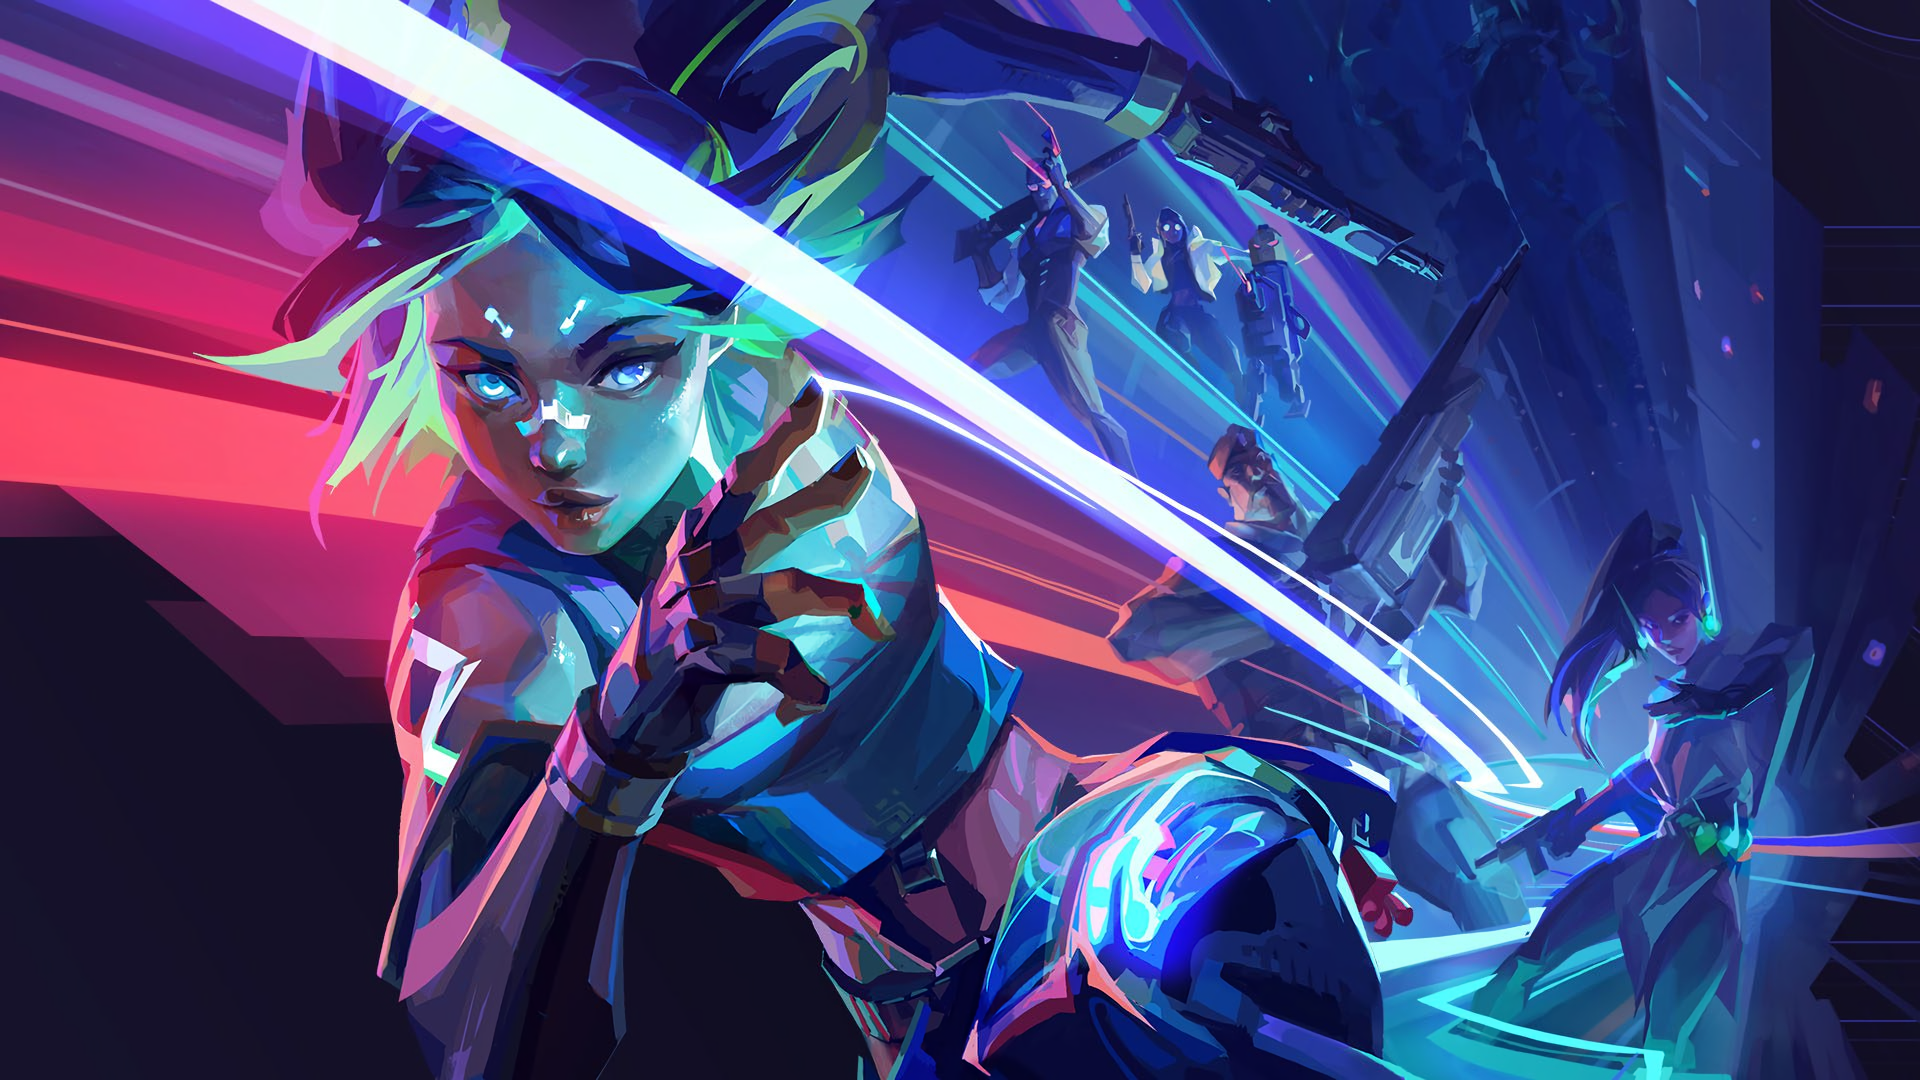
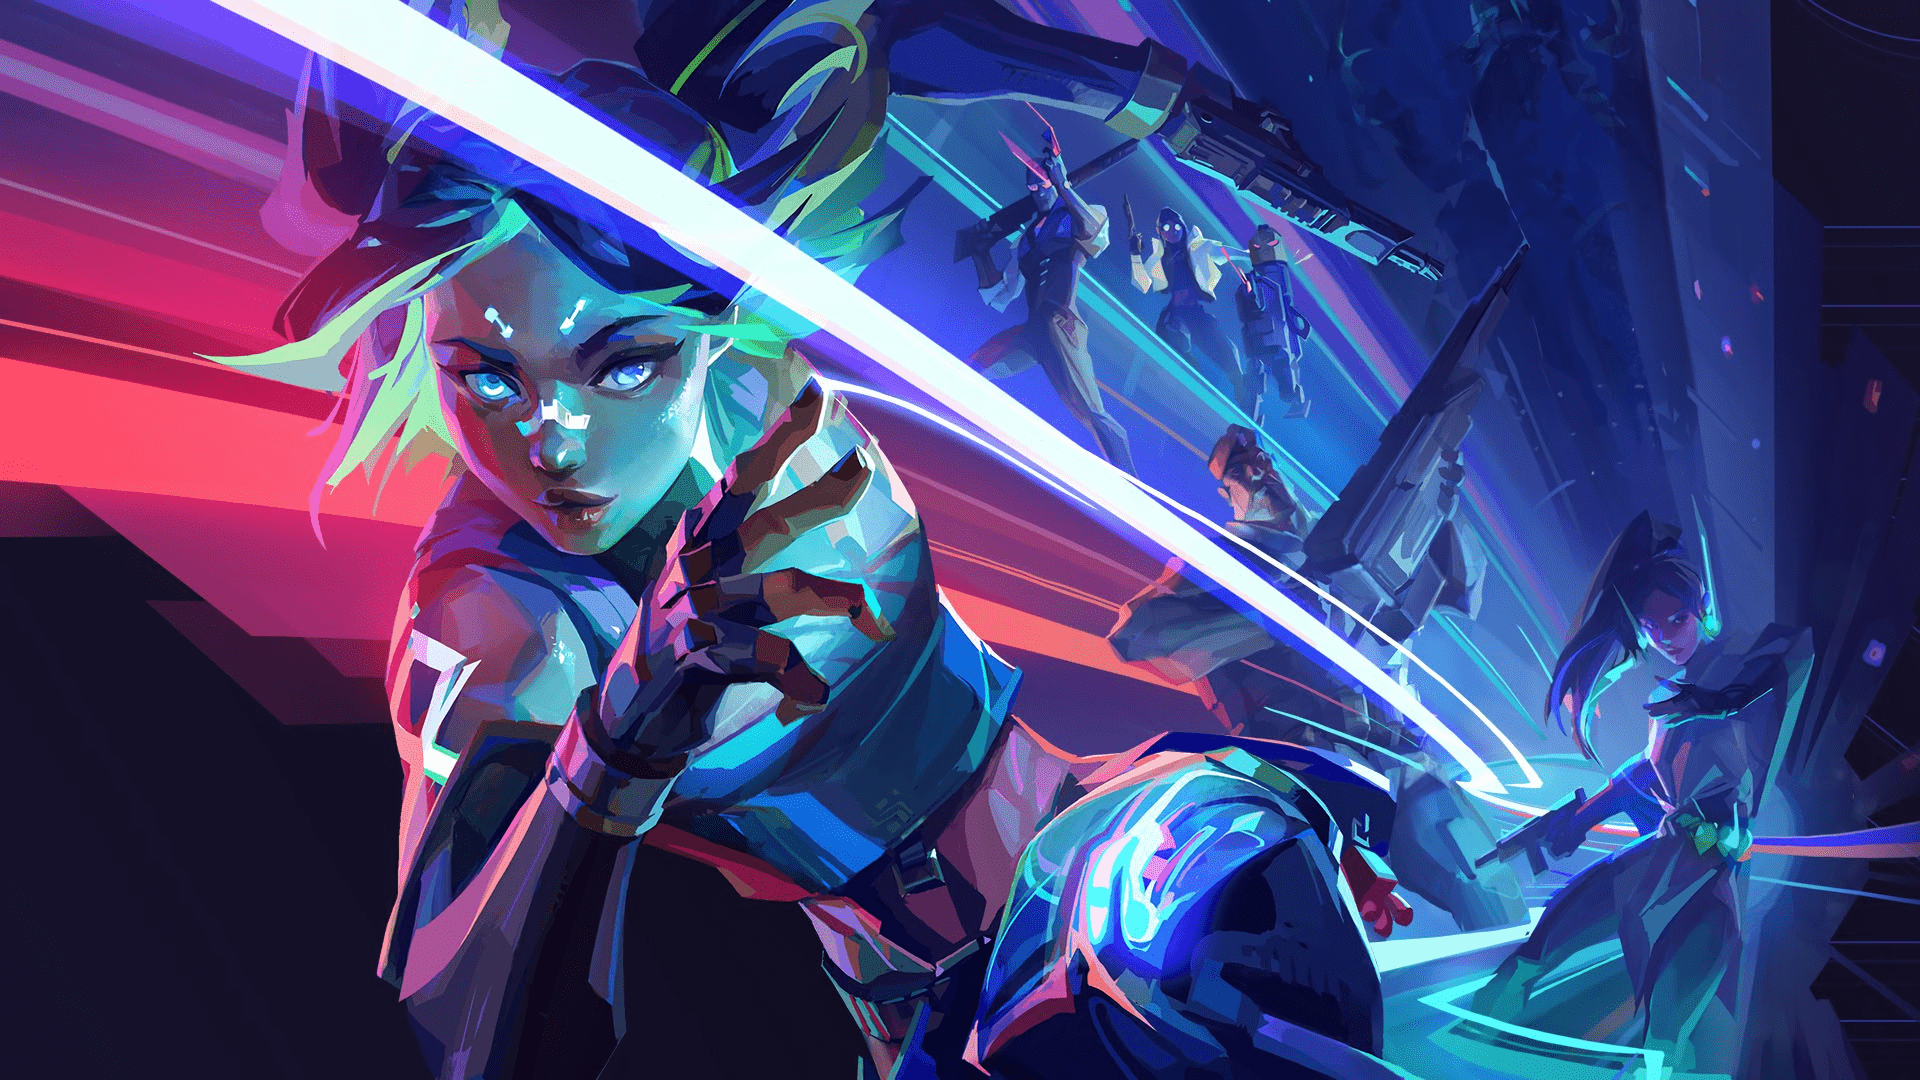
correção responsiva novidades

diff --git a/css/novidades.css b/css/novidades.css
@@ -1,24 +1,25 @@
 .novidades {
   background: linear-gradient(rgba(0, 0, 0, 0.8), rgba(0, 0, 0, 0.7)),
-    url(../img/mapa.jpg) no-repeat;
+    url(../img/mapa-comp.jpg) no-repeat;
   background-size: cover;
-  height: 1000px;
-  padding: 40px;
+  background-position: center;
+  height: auto;
+  padding: 60px;
 }
 
 .novidades-titulo {
   font-family: "Titillium Web", sans-serif;
   font-size: 4rem;
-  max-width: 1440px;
-  margin: 60px auto;
+  max-width: 1200px;
+  margin: 0px auto;
   color: white;
-  margin-bottom: 120px;
 }
 
 .novidades-container {
   display: flex;
   flex-wrap: wrap;
   justify-content: space-between;
+  padding: 20px;
   gap: 40px;
 }
 
@@ -27,13 +28,12 @@
     url(../img/neon.png);
   background-size: cover;
   background-position: left;
-  width: 500px;
-  height: 500px;
+  width: 400px;
+  height: 400px;
   border-radius: 5px;
   cursor: pointer;
   flex: 1 1 400px;
   position: relative;
-  padding: 20px;
   transform: scale(0.9);
   transition: 0.4s;
 }
@@ -59,6 +59,7 @@
 .item-info {
   position: absolute;
   bottom: 20px;
+  padding: 20px;
   font-family: "Titillium Web", sans-serif;
   color: white;
 }
@@ -69,24 +70,26 @@
 
 .item-info p {
   font-size: 1.35rem;
-  padding-right: 20px;
 }
 
-@media (max-width: 1360px) {
+@media (max-width: 1000px) {
   .novidades {
-    height: 1500px;
-  }
-}
-
-@media (max-width: 920px) {
-  .novidades {
-    height: 2000px;
-    padding: 20px;
+    background: linear-gradient(rgba(0, 0, 0, 0.3), rgba(0, 0, 0, 0.7));
   }
 }
 
 @media (max-width: 760px) {
   .novidades-titulo {
-    margin: 60px 0 60px 20px;
+    font-size: 2.5rem;
+    margin-left: 50px;
+  }
+
+  .novidades {
+    padding: 40px 10px;
+  }
+
+  .novidades-container {
+    padding: 20px;
+    gap: 20px;
   }
 }

diff --git a/css/main.css b/css/main.css
@@ -2,7 +2,7 @@
   height: 900px;
   width: 100%;
   background: linear-gradient(rgba(0, 0, 0, 0.3), rgba(0, 0, 0, 0.8)),
-    url(../img/main-img.jpg);
+    url(../img/main-img-comp.jpg);
   background-size: cover;
   box-shadow: inset 0 -200px #222;
   padding: 0 20px;

diff --git a/css/style.css b/css/style.css
@@ -4,3 +4,4 @@
 @import url(./agents.css);
 @import url(./dinamico.css);
 @import url(./novidades.css);
+@import url(./footer.css);

diff --git a/index.html b/index.html
@@ -128,7 +128,9 @@
     </div>
   </section>
 
+  <footer class="footer">
 
+  </footer>
 
 
 
